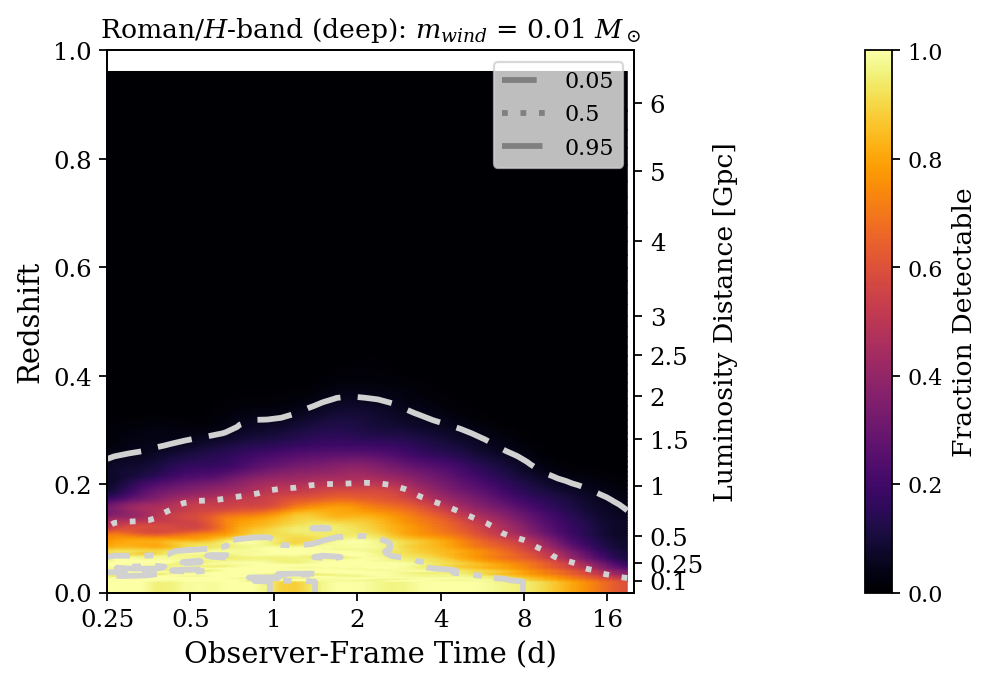
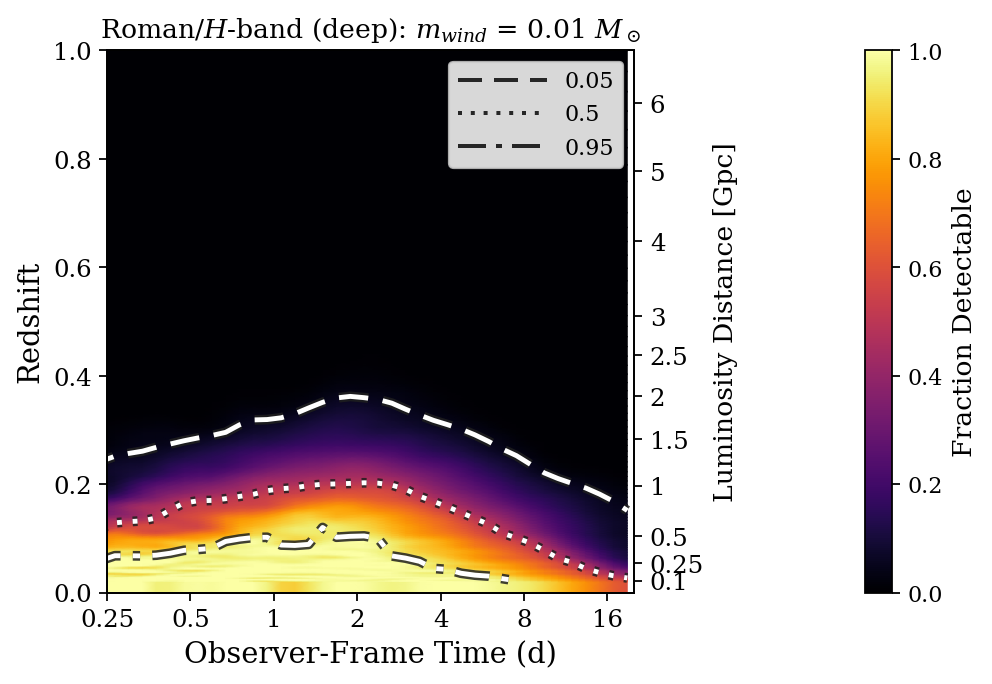
Draw the detectability edges as curves instead of contours
The 0.95 edge broke into a mess of islands: the fraction decreases with z, so the
edge is a single-valued z(t), but `contour` doesn't know that and the Monte Carlo
noise of a nearly saturated field crosses the level over and over. `detectability_edge`
takes the last crossing per phase column instead, one clean line per level.

Also: white with a dark stroke (the old 0.82 grey vanished over the saturated
yellow, exactly where the 0.95 edge lives), longer legend handles so the three
dash patterns read apart, and the fixed-mass panels now take the tier's full z
grid so they no longer end in blank space where the fraction is just zero.

diff --git a/notebooks/validation/kn_detectability_vs_chase.py b/notebooks/validation/kn_detectability_vs_chase.py
@@ -43,6 +43,7 @@ Uso: python notebooks/validation/kn_detectability_vs_chase.py [--output-dir DIR]
 import argparse
 from pathlib import Path
 
+import matplotlib.patheffects as path_effects
 import matplotlib.pyplot as plt
 import numpy as np
 import pandas as pd
@@ -78,6 +79,10 @@ MAP_PHASE_EDGES = np.geomspace(PHASE_MIN_DAYS, PHASE_MAX_DAYS, 41)
 # alza por fluctuaciones. Con bins de factor 2 el menos poblado recibe ~1000 y el sesgo desaparece.
 STATISTIC_PHASE_EDGES = np.geomspace(0.5, 16.0, 6)
 CONTOUR_LEVELS = (0.05, 0.5, 0.95)
+# Trazo de cada nivel. Se dibujan en blanco con un reborde oscuro: el gris claro de antes se perdia
+# sobre el amarillo saturado justo donde vive el contorno de 0.95.
+CONTOUR_DASHES = {0.05: (0, (6, 3)), 0.5: (0, (1, 2.2)), 0.95: (0, (7, 2.5, 1.5, 2.5))}
+CONTOUR_OUTLINE = [path_effects.withStroke(linewidth=4.4, foreground="0.12", alpha=0.85)]
 
 # Tipografia serif como las figuras de referencia.
 plt.rcParams.update({"font.family": "serif", "mathtext.fontset": "dejavuserif"})
@@ -164,7 +169,23 @@ def redshift_at_fraction(redshifts, fractions, level):
     )
 
 
-def detectability_map(frame, band, criterion, tier, phase_edges=MAP_PHASE_EDGES, grid_fraction=1.0):
+def detectability_edge(redshifts, fractions, level):
+    """z del borde de detectabilidad en cada columna de fase: el ultimo cruce del nivel a lo largo
+    de z (`fractions` es n_z x n_fase).
+
+    Sustituye a `contour` sobre el campo 2D. La fraccion decrece con z, asi que el borde ES una
+    curva z(t) de un solo valor; `contour` no lo sabe y, alrededor de 0.95, donde el ruido Monte
+    Carlo de un campo casi saturado cruza el nivel muchas veces, devolvia una maraña de islas en vez
+    de una linea. Aqui cada columna aporta un punto y el resultado es una linea limpia; las columnas
+    que no alcanzan el nivel quedan en NaN y cortan el trazo, que es lo correcto."""
+    return np.array(
+        [redshift_at_fraction(redshifts, fractions[:, column], level) for column in range(fractions.shape[1])]
+    )
+
+
+def detectability_map(
+    frame, band, criterion, tier, phase_edges=MAP_PHASE_EDGES, grid_fraction=1.0, redshift_nodes=None
+):
     """Fraccion detectable en (fase desde el merger) x (z) para una banda.
 
     `criterion` es 'paper' (mag_true < Tabla 1 de Chase) o 'pipeline' (S/N >= 5). Devuelve
@@ -174,7 +195,11 @@ def detectability_map(frame, band, criterion, tier, phase_edges=MAP_PHASE_EDGES,
     (1 para la grilla completa, 180/900 para una masa fija, 36/900 para masa eyecta total fija). Las
     realizaciones se sortearon uniformemente sobre la grilla, asi que solo esa fraccion de las 10 000
     por nodo de z pertenece al corte, y el denominador debe escalarse: sin esto un panel de masa fija
-    parece cinco veces menos detectable de lo que es."""
+    parece cinco veces menos detectable de lo que es.
+
+    `redshift_nodes` fija la grilla de z. Sin el, un corte de masa la deduce de sus propias filas y
+    se queda en el ultimo nodo con alguna deteccion, dejando el panel cortado en blanco justo donde
+    la fraccion ya es cero -- que es informacion, no ausencia de ella."""
     band_rows = frame[frame.band == band].copy()
     if criterion == "paper":
         hit = band_rows.mag_true < CHASE_LIMITING_MAGNITUDE[band]
@@ -186,7 +211,7 @@ def detectability_map(frame, band, criterion, tier, phase_edges=MAP_PHASE_EDGES,
         visits_per_realization = 1.0 if band == ANCHOR_BAND[tier] else 0.5
     band_rows = band_rows[np.asarray(hit) & np.isfinite(band_rows.mag_true)]
 
-    redshifts = np.sort(frame.z_CMB.unique())
+    redshifts = np.sort(frame.z_CMB.unique()) if redshift_nodes is None else np.asarray(redshift_nodes)
     phase = band_rows.explosion_offset_days + band_rows.days_since_detection
     counts, _, _ = np.histogram2d(
         band_rows.z_CMB, phase, bins=[np.append(redshifts, redshifts[-1] * 1.001), phase_edges]
@@ -267,7 +292,15 @@ def luminosity_distance_ticks(redshift_limits, cosmology=CHASE_COSMOLOGY):
 
 
 def figure_paper_style(
-    frame, tier, band, criterion, output_path, redshift_max=1.0, subtitle=None, grid_fraction=1.0
+    frame,
+    tier,
+    band,
+    criterion,
+    output_path,
+    redshift_max=1.0,
+    subtitle=None,
+    grid_fraction=1.0,
+    redshift_nodes=None,
 ):
     """Un panel al estilo de las figuras de referencia (Chase+21 Fig. 3/5/7).
 
@@ -281,7 +314,7 @@ def figure_paper_style(
     de Poisson domina la lectura. Los numeros publicados (z50%/z95%) NO salen de este campo
     suavizado sino de `per_band_fraction_vs_redshift`, que no aplica ningun filtro."""
     redshifts, phases, fractions = detectability_map(
-        frame, band, criterion, tier, grid_fraction=grid_fraction
+        frame, band, criterion, tier, grid_fraction=grid_fraction, redshift_nodes=redshift_nodes
     )
     smoothed = gaussian_filter(fractions, sigma=1.2, mode="nearest")
 
@@ -294,17 +327,16 @@ def figure_paper_style(
 
     figure, axes = plt.subplots(figsize=(6.4, 4.4))
     mesh = axes.pcolormesh(phases, redshifts, smoothed, cmap="inferno", vmin=0, vmax=1, shading="gouraud")
-    levels = [level for level in CONTOUR_LEVELS if smoothed.max() > level]
-    if levels:
-        styles = {0.05: (0, (6, 3)), 0.5: (0, (1, 2.2)), 0.95: (0, (7, 2.5, 1.5, 2.5))}
-        axes.contour(
+    for level in CONTOUR_LEVELS:
+        if smoothed.max() <= level:
+            continue
+        axes.plot(
             phases,
-            redshifts,
-            smoothed,
-            levels=levels,
-            colors="0.82",
-            linewidths=2.6,
-            linestyles=[styles[level] for level in levels],
+            detectability_edge(redshifts, smoothed, level),
+            color="white",
+            lw=2.2,
+            ls=CONTOUR_DASHES[level],
+            path_effects=CONTOUR_OUTLINE,
         )
     axes.set_xscale("log")
     axes.set_xlim(0.25, PHASE_MAX_DAYS)
@@ -326,11 +358,19 @@ def figure_paper_style(
     distance_axes.set_ylabel("Luminosity Distance [Gpc]", fontsize=12)
     distance_axes.tick_params(labelsize=11)
 
+    # Handles largos y finos: con el trazo grueso y el handle corto de antes los tres patrones de
+    # guiones se veian como la misma barra gris y la leyenda no distinguia un nivel de otro.
     handles = [
-        Line2D([], [], color="0.5", lw=2.6, ls=style)
-        for style in ((0, (6, 3)), (0, (1, 2.2)), (0, (7, 2.5, 1.5, 2.5)))
+        Line2D([], [], color="0.15", lw=1.8, ls=CONTOUR_DASHES[level]) for level in CONTOUR_LEVELS
     ]
-    axes.legend(handles, ["0.05", "0.5", "0.95"], fontsize=10, loc="upper right", framealpha=0.75)
+    axes.legend(
+        handles,
+        [f"{level:g}" for level in CONTOUR_LEVELS],
+        fontsize=10,
+        loc="upper right",
+        framealpha=0.85,
+        handlelength=4.0,
+    )
 
     colorbar = figure.colorbar(mesh, ax=[axes, distance_axes], fraction=0.045, pad=0.14)
     colorbar.set_label("Fraction Detectable", fontsize=12)
@@ -479,6 +519,7 @@ def main():
     maps_dir = figures_dir / "mapas"
     maps_dir.mkdir(exist_ok=True)
     for tier, frame in filtered.items():
+        redshift_nodes = np.sort(frame.z_CMB.unique())
         bands = [band for band in BANDS_BY_WAVELENGTH if band in set(frame.band)]
         for band in bands:
             figure_paper_style(frame, tier, band, "paper", maps_dir / f"Roman{band[0]}_{tier}.png")
@@ -499,6 +540,7 @@ def main():
                     maps_dir / f"RomanH_{prefix}_{mass:g}_{tier}.png",
                     subtitle=f"$m_{{{'dyn' if prefix == 'md' else 'wind'}}}$ = {mass:g} $M_\\odot$",
                     grid_fraction=selected.mean(),
+                    redshift_nodes=redshift_nodes,
                 )
         # Masa eyecta total fija (Fig. 7): el unico par (dyn, wind) de la grilla que suma el total.
         for mass in (0.1, 0.001):
@@ -511,6 +553,7 @@ def main():
                 maps_dir / f"RomanH_mw_{mass:g}_md_{mass:g}_{tier}.png",
                 subtitle=f"$m_{{ej}}$ = {2 * mass:g} $M_\\odot$ (dyn = wind = {mass:g})",
                 grid_fraction=selected.mean(),
+                redshift_nodes=redshift_nodes,
             )
 
     summary = figure_criteria(filtered, figures_dir / "criterio_paper_vs_pipeline.png")
